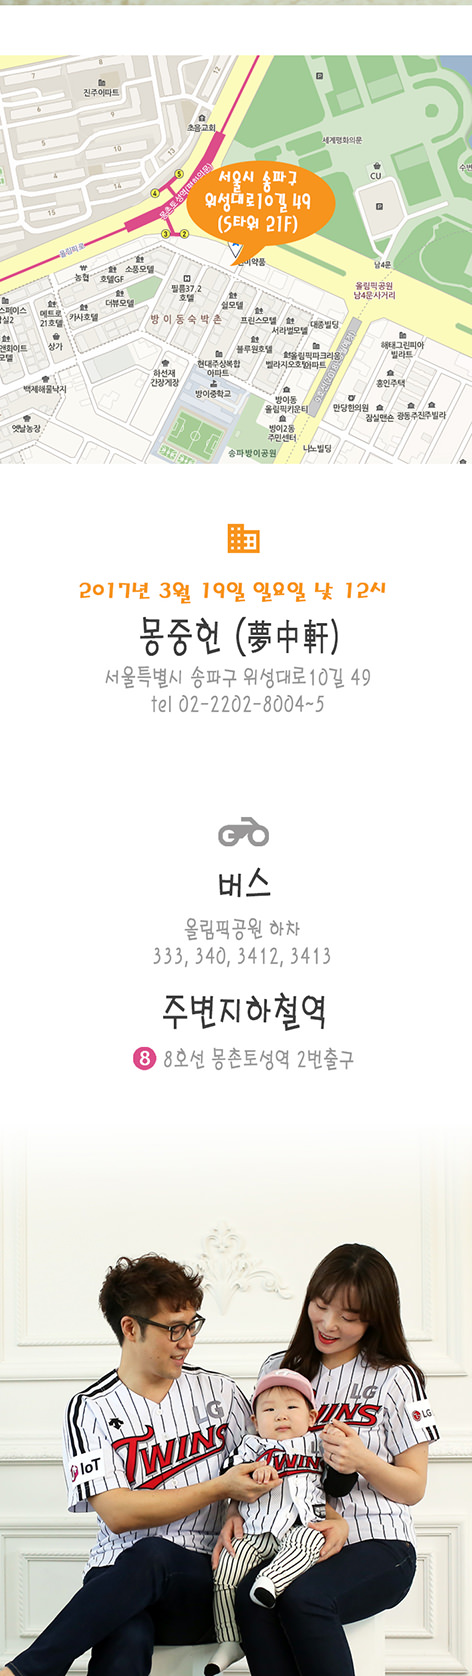
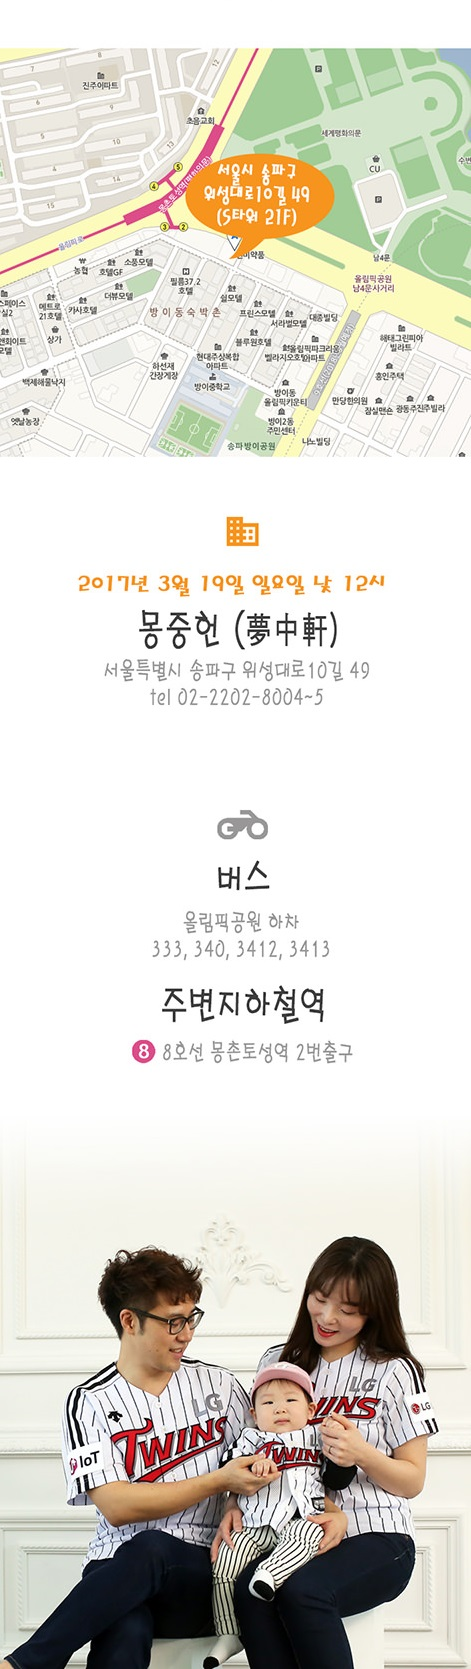
test

diff --git a/src/components/jwSpace/JwInvitation.jsx b/src/components/jwSpace/JwInvitation.jsx
@@ -8,6 +8,7 @@ var invitationDadImg =  require('../../assets/img/초대-B(아빠).jpg');
 var invitationDadImgChg =  require('../../assets/img/초대-B(아빠변환).jpg');
 var invitationMomImg =  require('../../assets/img/초대-B(엄마).jpg');
 var invitationMomImgChg = require('../../assets/img/초대-B(엄마변환).jpg');
+var invitationCtextImg =  require('../../assets/img/초대-C(text).png');
 var invitationDImg =  require('../../assets/img/초대-D.jpg');
 var invitationDImg1 =  require('../../assets/img/초대-C(50일).jpg');
 var invitationDImg2 =  require('../../assets/img/초대-C(100일).jpg');
@@ -43,6 +44,7 @@ var JwInvitation = React.createClass({
 					</div>
 				</div>
 				<div className="invitationC">
+					<Image className="invitationCtextImg" src={invitationCtextImg}></Image>
 					<Carousel>
 					    <Carousel.Item>
 					    	<Image className="invitationCImg" src={invitationDImg1}></Image>

diff --git a/src/assets/css/list.css b/src/assets/css/list.css
@@ -74,8 +74,10 @@ div.jwInvitation > .invitationA > .invitationAImg {width:100%}
 div.jwInvitation > .invitationB > .invitationB1 > .invitationBImg {width:100%}
 div.jwInvitation > .invitationB > .invitationB2 > a > .invitationDadImg {width:50%}
 div.jwInvitation > .invitationB > .invitationB2 > a > .invitationMomImg {width:50%}
-div.jwInvitation > .invitationC {width:100%}
+div.jwInvitation > .invitationC {width:100%; margin-top:20px}
+div.jwInvitation > .invitationC > .invitationCtextImg {width:100%; position:absolute; z-index:100}
 .carousel-inner>.item>a>img, .carousel-inner>.item>img, .img-responsive, .thumbnail a>img, .thumbnail>img {width:100%}
+.carousel-control {z-index:1000}
 div.jwInvitation > .invitationD > .invitationDImg {width:100%}
 
 footer#footer {height:50px; background-color:#E0E0E0;}
